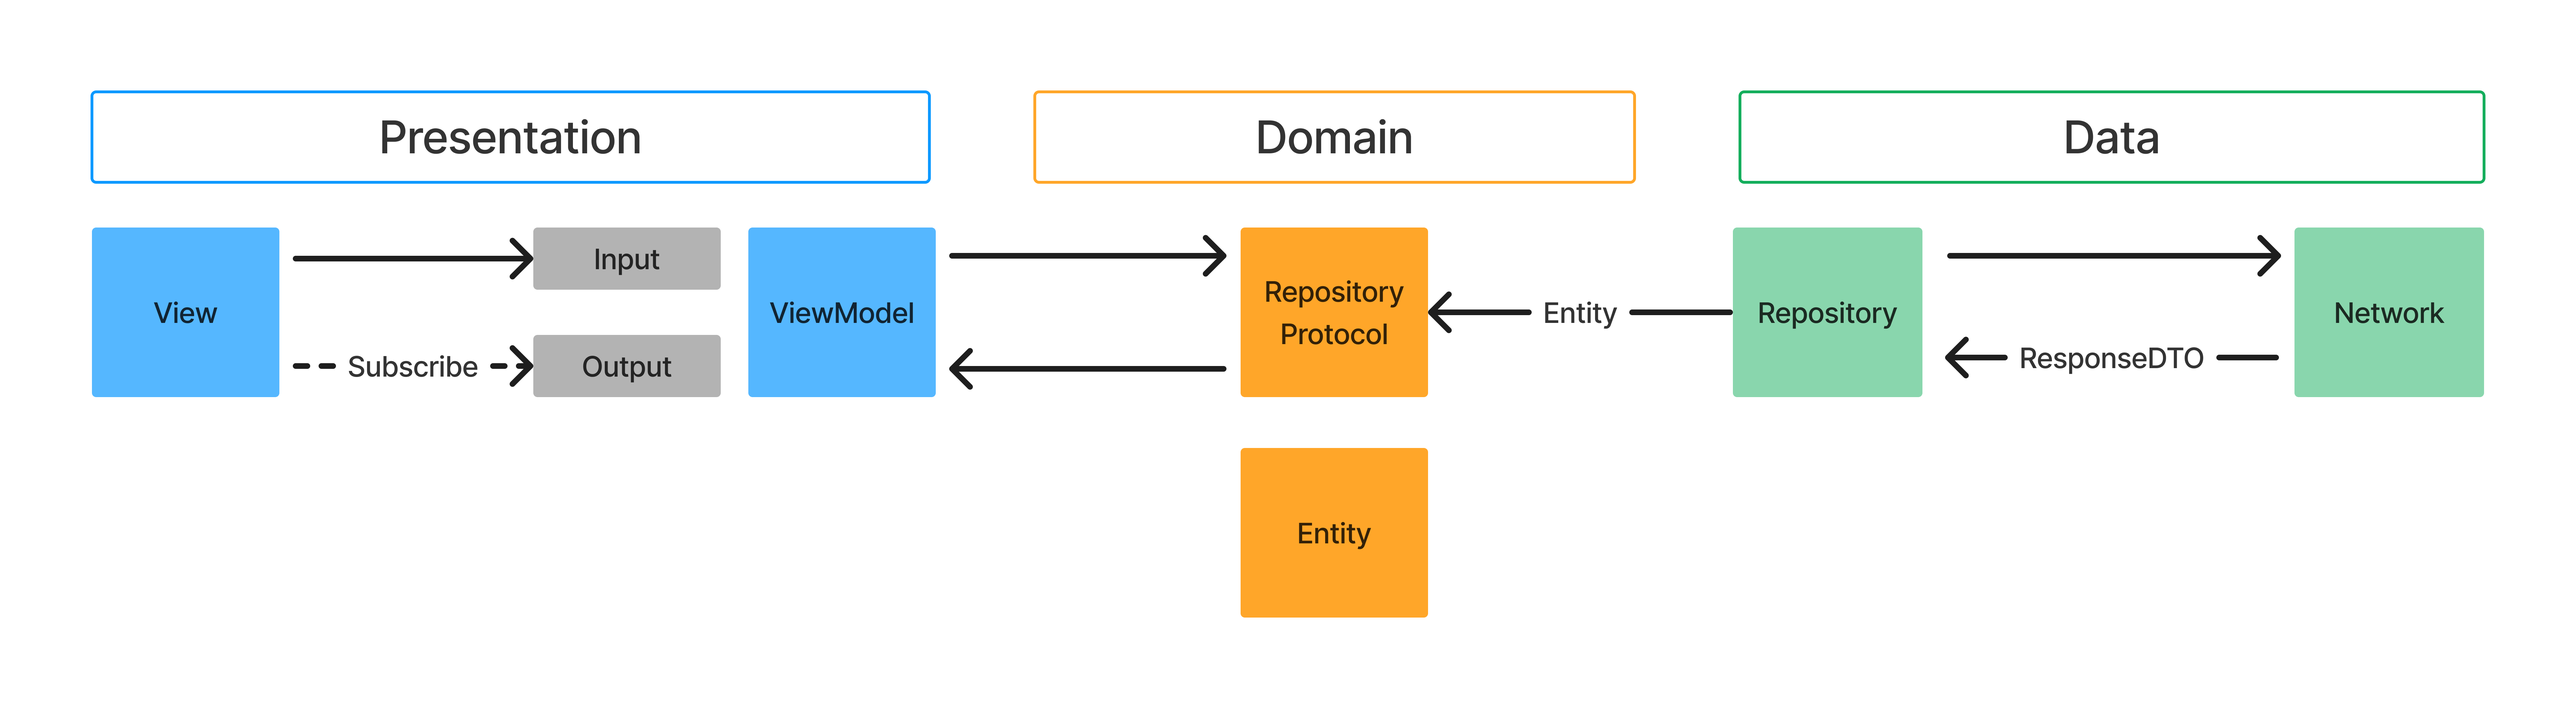
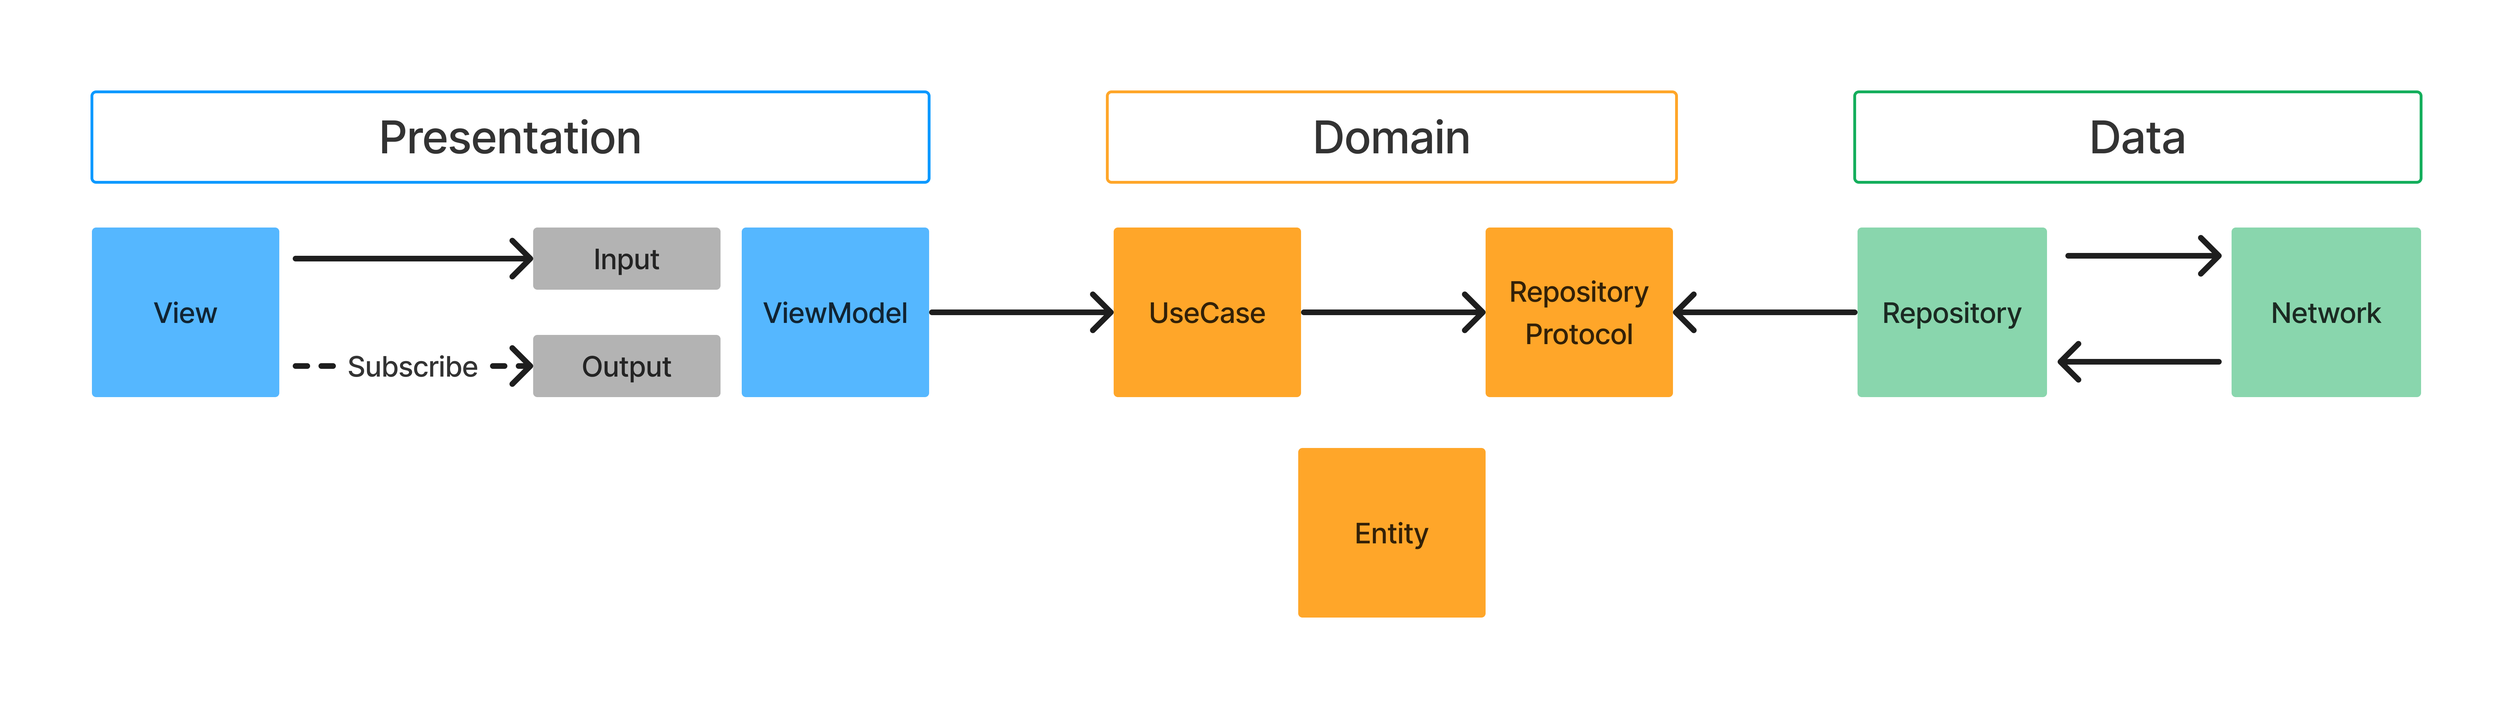
<docs> README 아키텍처 수정

diff --git a/README.md b/README.md
@@ -128,13 +128,18 @@ Unsplash unofficial app for iOS
 │   │   ├── Entities
 │   │   │   ├── Photo.swift
 │   │   │   └── Topic.swift
-│   │   └── Interfaces
-│   │       └── Repositories
-│   │           ├── PhotoCoreDataRepository.swift
-│   │           ├── PhotoRepository.swift
-│   │           ├── PhotoSearchRepository.swift
-│   │           ├── TopicPhotoRepository.swift
-│   │           └── TopicRepository.swift
+│   │   ├── Interfaces
+│   │   │   └── Repositories
+│   │   │       ├── PhotoCoreDataRepository.swift
+│   │   │       ├── PhotoRepository.swift
+│   │   │       ├── PhotoSearchRepository.swift
+│   │   │       ├── TopicPhotoRepository.swift
+│   │   │       └── TopicRepository.swift
+│   │   └── UseCases
+│   │       ├── GetPhotoListUseCase.swift
+│   │       ├── GetPhotoSearchListUseCase.swift
+│   │       ├── GetTopicListUseCase.swift
+│   │       └── GetTopicPhotoListUseCase.swift
 │   ├── Infrastructure
 │   │   └── Network
 │   │       ├── API.swift
@@ -171,6 +176,16 @@ Unsplash unofficial app for iOS
 │   │       └── TopicPhotoList
 │   │           ├── TopicPhotoListViewController.swift
 │   │           └── TopicPhotoListViewModel.swift
+│   └── Resource
+│       ├── Assets.xcassets
+│       │   ├── AccentColor.colorset
+│       │   │   └── Contents.json
+│       │   ├── AppIcon.appiconset
+│       │   │   └── Contents.json
+│       │   └── Contents.json
+│       ├── Base.lproj
+│       │   └── LaunchScreen.storyboard
+│       └── Info.plist
 ├── UnsplashTests
 │   ├── Network
 │   │   ├── MockURLSession.swift
